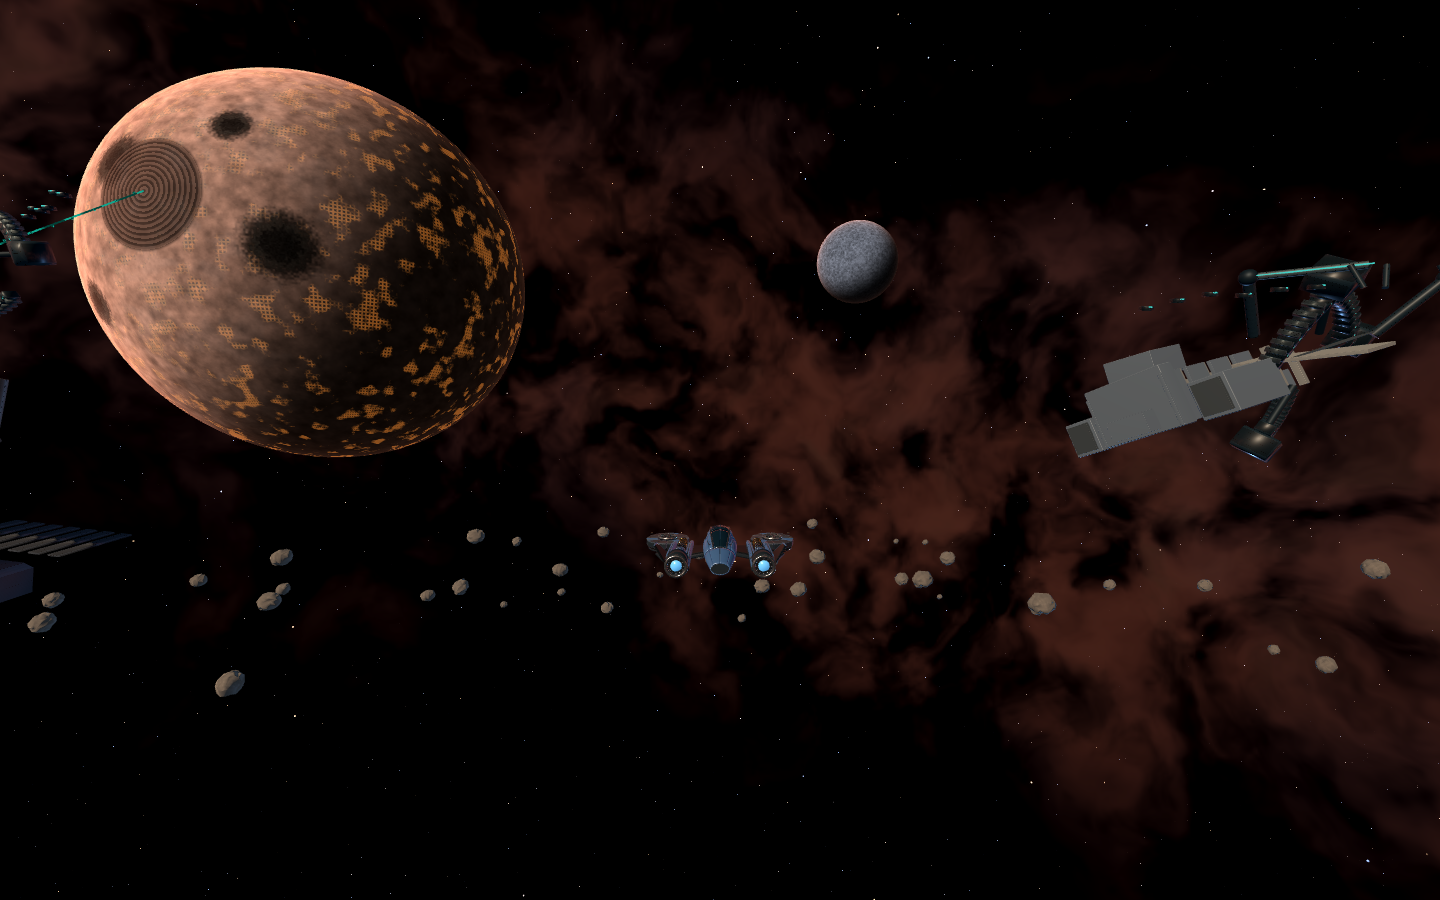
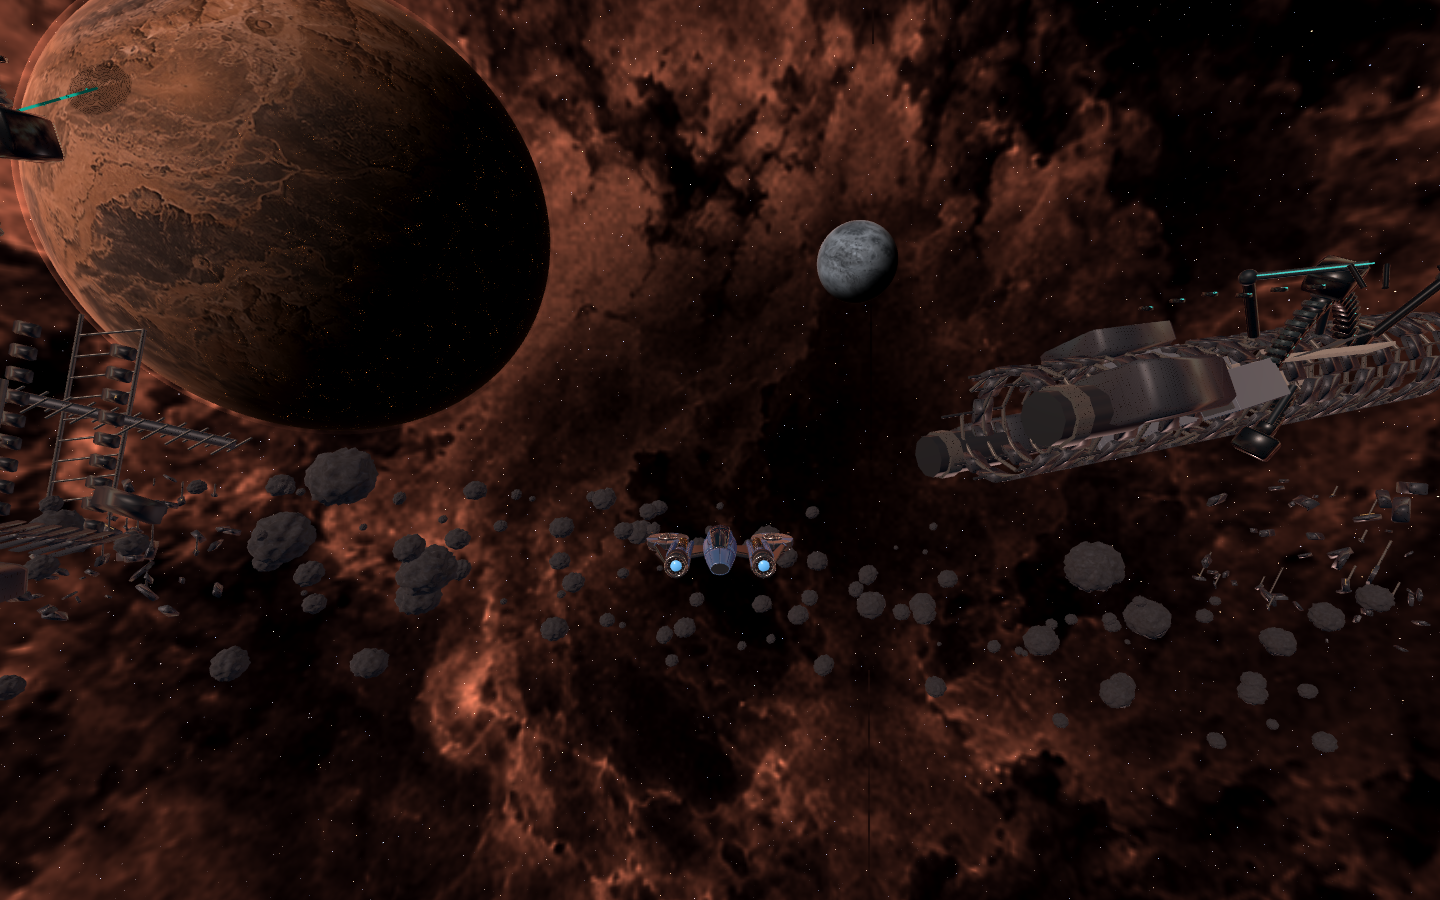
docs: refresh campaign backdrop gallery and validation

diff --git a/docs/sector-art/campaign-backgrounds.md b/docs/sector-art/campaign-backgrounds.md
@@ -1,10 +1,12 @@
 # Reclamation campaign backgrounds
 
-The four maps now implement the [approved campaign concepts](../../art/map-background-concepts/README.md) as 3D scenery. M1 shows the aftermath of the invasion and returning human supply staging. The outer sectors show alien resource extraction and salvage among former human infrastructure. Planets, moons, ruined rings, collectors, receivers, wrecks and belts have real spatial depth; the nebula surrounds the pilot in every direction.
+The four maps implement the [approved campaign concepts](../../art/map-background-concepts/README.md) as 3D scenery. This quality pass replaces the first implementation's coarse planetary noise and soft nebula with dedicated surface textures, larger planetary compositions, layered metal structures and denser debris belts. M1 shows the aftermath of the invasion and returning human supply staging. The outer sectors show alien resource extraction and salvage among former human infrastructure. Planets, moons, ruined rings, collectors, receivers, wrecks and belts have real spatial depth; the nebula surrounds the pilot in every direction.
 
 ## In-game views
 
 These captures use the actual sector, Compatibility renderer and behind-the-ship camera at 1440 x 900. The HUD is hidden in the gallery to expose the scenery; corresponding HUD views are linked below.
+
+For comparison, the [previous M1 implementation](https://github.com/Timerk/Dorbit/blob/1d7e50e7358d6370cef735ecb129c7efb29356ad/docs/sector-art/campaign-m1-background.png) used the coarse procedural surface and sparse scenery. The current captures below come from the final textured version.
 
 ![M1 colony damage and orbital defenses](campaign-m1-background.png)
 
@@ -18,20 +20,21 @@ HUD views: [M1](campaign-m1-flight.png), [M2](campaign-m2-flight.png), [M3](camp
 
 ## Implementation and limits
 
-[SectorBackdrop](../../scripts/sector_backdrop.gd) builds each map's distant scenery and switches its nebula palette on arrival. Human and alien model components merge by material. Each distant belt uses three MultiMeshes. The [planet shader](../../shaders/planet.gdshader) draws terrain, ruined settlement grids, bombardment damage, cloud cover, atmosphere and terraced mines. [Mining streams](../../shaders/mining_stream.gdshader) animate in the material without particle simulation or networking.
+[SectorBackdrop](../../scripts/sector_backdrop.gd) builds each map's distant scenery and switches its nebula palette and stellar lighting on arrival. Human and alien model components merge by material. Beveled armor, exposed carrier ribs and decks, layered ring modules, broken defense frames and alien processing throats give the landmarks recognizable silhouettes. Each distant belt uses three MultiMeshes with 480 varied rocks; scattered human hull plates frame the battlefield.
+
+The [sky shader](../../shaders/space.gdshader) samples a dedicated nebula panorama at screen resolution, preserves dark flight space and blends its spherical seam. The [planet shader](../../shaders/planet.gdshader) wraps surface textures with coherent coastlines, geology, settlements, damage and mines, then adds the terminator, surviving lights and collector excavation. A thin [atmosphere shell](../../shaders/atmosphere.gdshader) extends beyond the solid limb. [Mining streams](../../shaders/mining_stream.gdshader) animate in the material without particle simulation or networking. The [texture sources and exact prompts](../../assets/sector/campaign-textures.md) document the generated original artwork.
 
 All decorative geometry stays outside the 1,200 m flight boundary. It has no colliders, services or navigation contacts. Client and server retain identical physics envelopes for all 96 playable asteroids and the 53 station boxes. The outer maps now use the existing textured rock models inside those envelopes. The camera far plane extends to 8,500 m to retain distant landmarks from across the sector.
 
-The scenery depicts a fixed post-arrival M1 and occupied outer sectors. It does not implement mining interactions, campaign missions, changing occupation states or construction stages. Existing station and ship models remain in use. The generated concepts guided the composition and story; the runtime uses procedural geometry and shaders rather than the paintings as flat backgrounds.
+The scenery depicts a fixed post-arrival M1 and occupied outer sectors. It does not implement mining interactions, campaign missions, changing occupation states or construction stages. Existing station and ship models remain in use. The concept paintings remain references; new generated textures contain only sky or surfaces. Orbital objects, rocks, wrecks and planets are real meshes. The colony's cloud pattern is baked into its surface texture and does not animate.
 
 ## Validation
 
-- The Windows suite passed all 51 check invocations. It includes dedicated-server combat, connected-map travel, stale-packet isolation, persistence, collision geometry, targeting, autopilot, HUD, settings and the hunt/repair replay.
-- The expanded sector visual fixture passed 359 headless assertions. It compares all four maps' client/server obstacles, checks background bounds, verifies palette changes and repeated visits, and confirms the dedicated server creates no rendering.
-- The rendered sector fixture completed without script or shader errors. It captured station approaches, ordinary flight, planet-facing views, reverse views and near-boundary views on all four maps.
-- The Windows export passed, including packaged asset/menu checks and matching source/export protocol fingerprints. The four-map render fixture also completed against the exported pack, so dynamic scenery and shader resources were exercised outside the source project.
-- A separate rendered run of the visual assertions passed 935 assertions, including the GPU-backed instanced belt transforms. On shutdown it reported GL texture cleanup errors. The previous, unmodified visual-test fixture also reports GL texture cleanup errors when run with a renderer. The normal sector preview completed without these shutdown errors.
-- Local samples on an AMD Radeon RX 6800 at 1440 x 900, 4x MSAA and VSync off measured approximately 1.69-1.83 ms average frame intervals and 1.86-2.22 ms p95 in the four boundary views. The home flight sample averaged approximately 489 FPS with 2.21 ms p95. These short, single-client samples do not establish laptop performance or a ten-player rendering budget. See the [raw report](campaign-render-report.json).
+- The Windows suite passed all 51 check invocations in 302.5 seconds. It includes dedicated-server combat, connected-map travel, stale-packet isolation, persistence, collision geometry, targeting, autopilot, HUD, settings and the hunt/repair replay. Existing collinear-up-vector and ObjectDB cleanup warnings remain in unrelated fixtures.
+- The final sector visual fixture passed 422 headless assertions. It compares all four maps' client/server obstacles, checks background bounds and surface resources, verifies palette changes and repeated visits, and confirms the dedicated server creates no rendering.
+- The rendered sector fixture completed without script or shader errors. It captured station approaches, ordinary flight, planet-facing views, reverse views and near-boundary views on all four maps, with the default Compatibility renderer, 4x MSAA and bloom off.
+- The Windows resource pack exported successfully. The same four-map fixture ran against the packaged resources using an external review script, exercising dynamically loaded textures, geometry and shaders. A new standalone Windows executable was not built during this refinement pass.
+- The [raw frame report](campaign-render-report.json) records 120 frames per boundary view and 240 frames of home flight on an AMD Radeon(TM) Graphics adapter at 1440 x 900, 4x MSAA and VSync off. These short single-client samples do not establish ten-player rendering performance; the report records the actual timings rather than an FPS guarantee.
 
 ## Reproduce
 

diff --git a/assets/sector/README.md b/assets/sector/README.md
@@ -36,20 +36,23 @@ Commit regenerated GLBs, textures and Godot `.import` metadata. Runtime scripts
 load render resources only on clients; server obstacle generation consumes the
 original fixed random sequence for asteroids and the shared station box manifest.
 
-The background uses [space.gdshader](../../shaders/space.gdshader), with static
-nebula calculations cached in the sky radiance cubemap and sharp stars drawn at
-screen resolution. [planet.gdshader](../../shaders/planet.gdshader) supplies ocean,
-land, cloud cover, a terminator and an atmospheric limb without extra transparent
-sphere layers. Neither shader uses time or camera position to animate the sky.
+The background uses [space.gdshader](../../shaders/space.gdshader), with a detailed
+panorama sampled at screen resolution, sharp procedural stars and a separate
+radiance exposure for reflections. [planet.gdshader](../../shaders/planet.gdshader)
+wraps dedicated surface textures onto real spheres and draws a terminator,
+surviving city lights and the collector excavation. A thin additive atmosphere
+shell extends beyond the solid limb. The [texture sources and full prompts](campaign-textures.md)
+document the generated original artwork; it is separate from the Blender assets.
 
 The [campaign backdrop builder](../../scripts/sector_backdrop.gd) composes all
 four sectors from original procedural geometry and the existing asteroid,
 derelict and metal-panel assets. Beveled human modules, broken defense rings,
 segmented alien collectors, salvage arms and relay pylons merge by material
 instead of creating a draw call for each component. Distant belts use three
-MultiMeshes per map. Planets have separate terrain, atmosphere, ruined city
-districts, bombardment scars and terraced mines. Each map has its own nebula
-palette. The narrow [mining stream shader](../../shaders/mining_stream.gdshader)
+MultiMeshes per map, with 480 rocks of varied sizes. Planets have detailed terrain,
+ruined settlements, bombardment scars and mines. Broken carrier decks and ribs,
+layered ring modules and debris fields reinforce the invasion history. Each map
+has its own sky palette and stellar lighting. The narrow [mining stream shader](../../shaders/mining_stream.gdshader)
 animates resource flow without particles or simulation nodes.
 
 These landmarks are outside the flight boundary and have no colliders or
